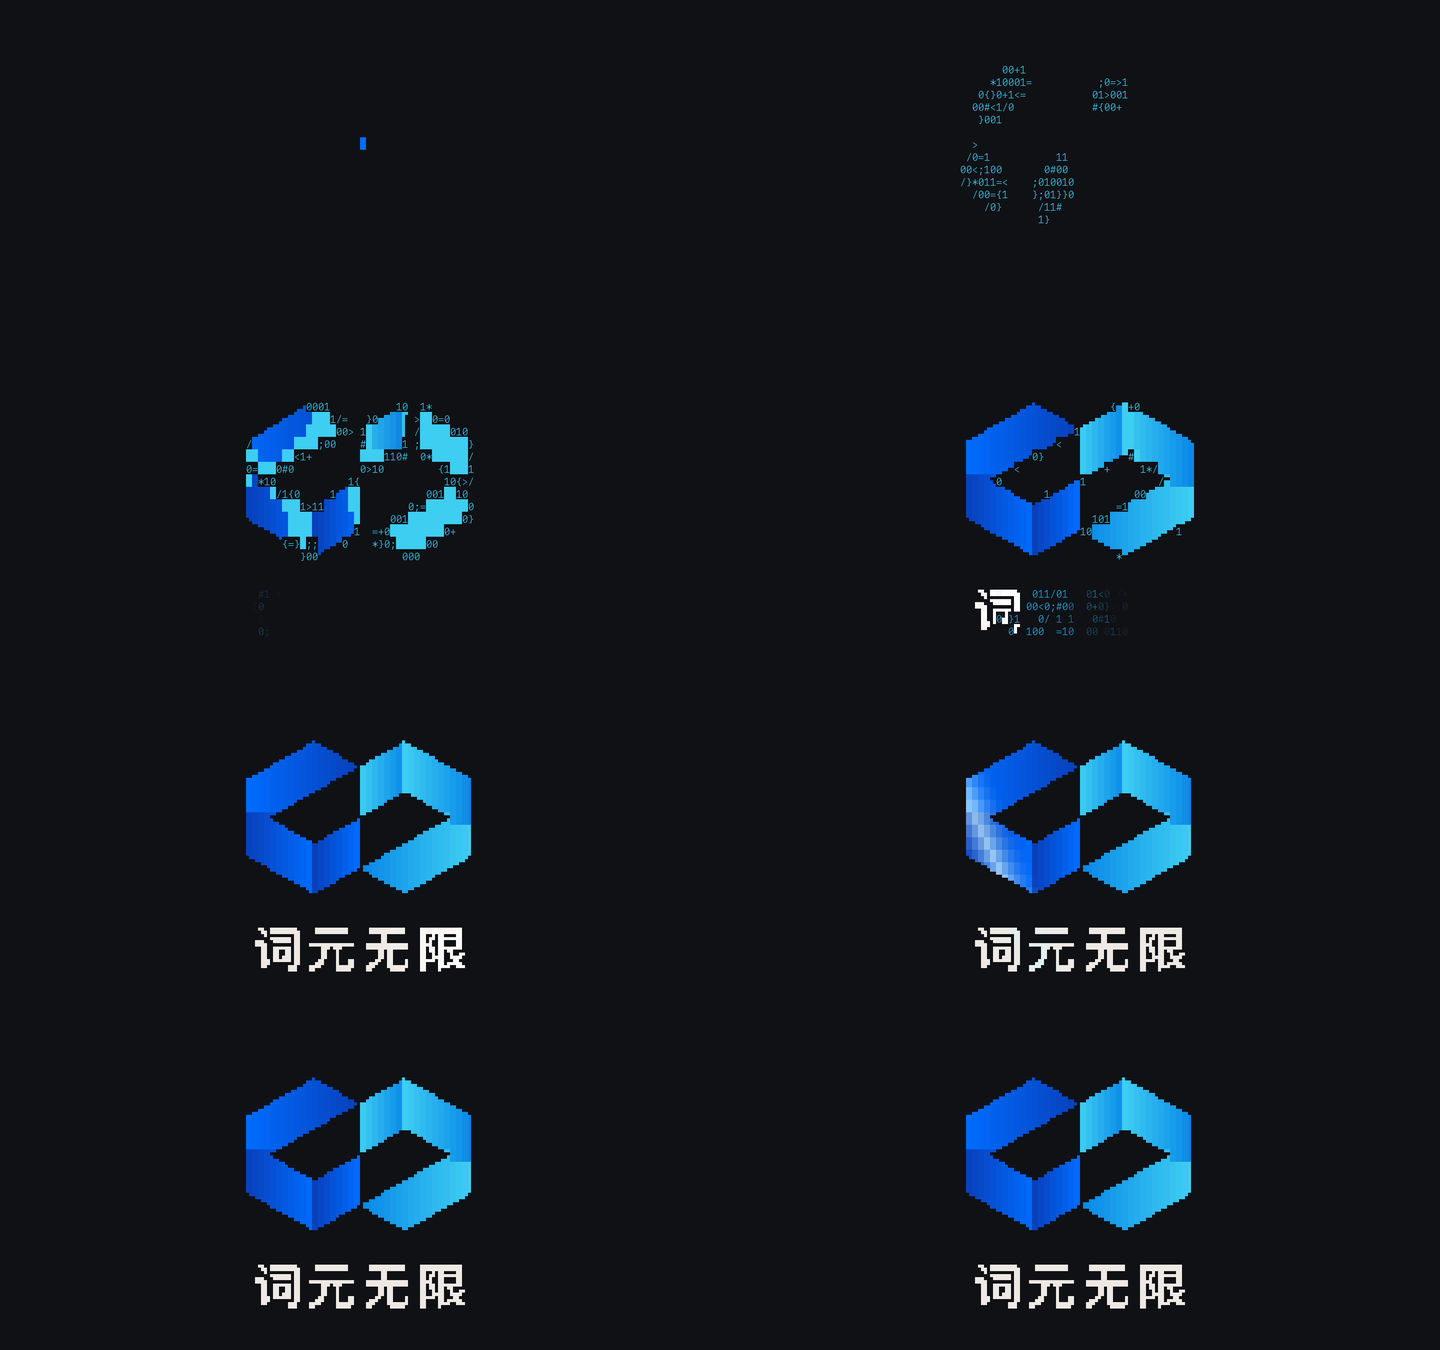
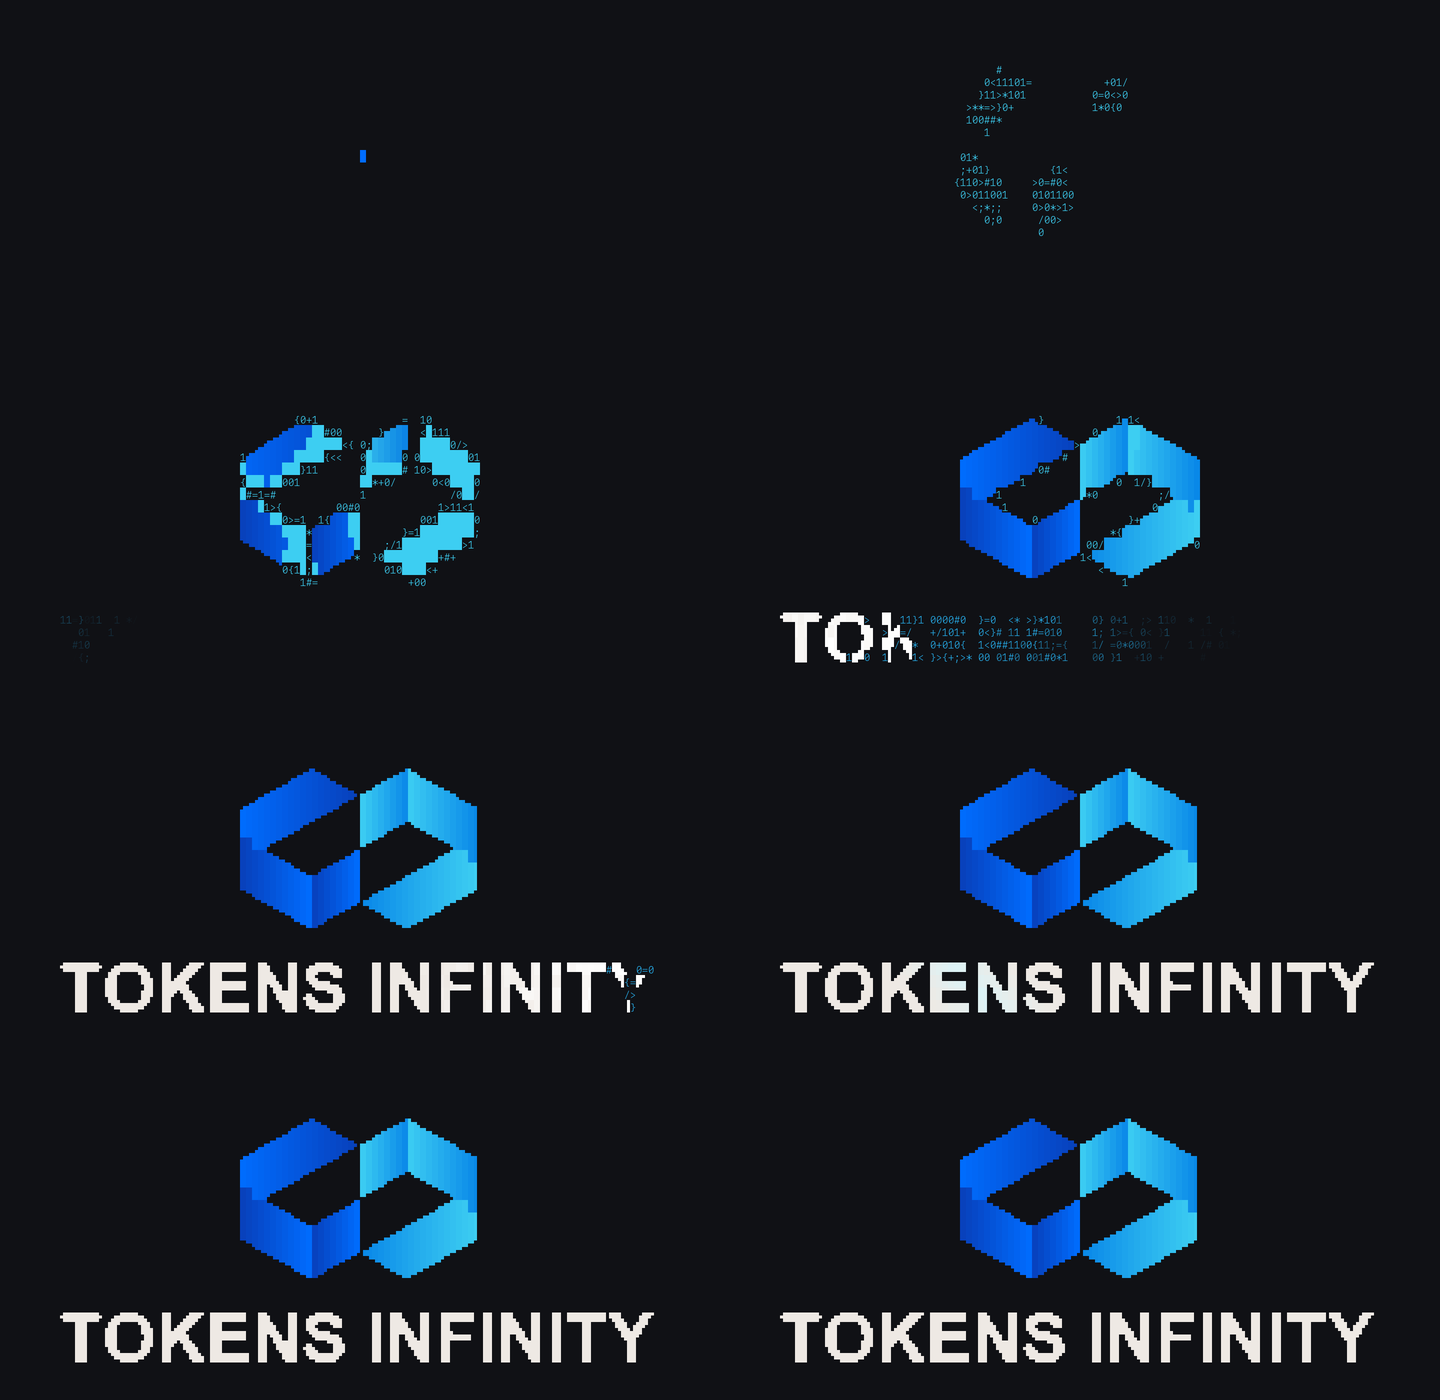
Use TOKENS INFINITY for the large animated title

diff --git a/tools/build_assets.py b/tools/build_assets.py
@@ -4,6 +4,7 @@ import re
 import xml.etree.ElementTree as ET
 from pathlib import Path
 import build_art as build
+from PIL import Image, ImageDraw, ImageFont
 
 ROOT = Path(__file__).resolve().parents[1]
 SVG = ROOT / 'pangu/assets/ciyuan-mark.svg'
@@ -27,7 +28,23 @@ data.update(source='ciyuan-mark.svg — user supplied logo', petals=[s['points']
             'stops': [[0, [61, 206, 242]], [.5, [0, 109, 255]], [1, [8, 63, 186]]]})
 build.FONT = build.default_font()
 assert build.FONT, 'PingFang font is required for building assets'
-data['word_sizes'] = {str(r): build.text_bits('词元无限', r, .10) for r in range(1, 7)}
+def english_word(rows):
+    text = 'TOKENS INFINITY'
+    font = ImageFont.truetype('/System/Library/Fonts/Supplemental/Arial Bold.ttf', 160)
+    box = font.getbbox(text)
+    img = Image.new('L', (box[2]-box[0], box[3]-box[1]), 0)
+    ImageDraw.Draw(img).text((-box[0], -box[1]), text, font=font, fill=255)
+    height = rows * 4
+    width = round(img.width / img.height * height * build.SUB_ASPECT)
+    width += width % 2
+    img = img.resize((width, height), Image.Resampling.LANCZOS)
+    bits = [format(sum(1 << x for x in range(width) if img.getpixel((x,y)) >= 118), 'x')
+            for y in range(height)]
+    return {'rows': rows, 'cols': width//2, 'bits': bits}
+
+
+data['word_text'] = 'TOKENS INFINITY'
+data['word_sizes'] = {str(r): english_word(r) for r in range(1, 7)}
 data['slogans'] = {k: {'text': '从词元，抵达无限', 'sizes': [build.text_bits('从词元，抵达无限', r) for r in (3, 4, 5, 6)]} for k in ('codex', 'claude')}
 asset.write_text(json.dumps(data, ensure_ascii=False, separators=(',', ':')))
-print('Built six logo faces with original SVG gradients and 词元无限 wordmark')
+print('Built six logo faces with original SVG gradients and TOKENS INFINITY wordmark')

diff --git a/pangu/art.py b/pangu/art.py
@@ -272,8 +272,7 @@ class Lockup:
         self.word_rows = word_rows
         self.slogan_rows = slogan_rows
         if word_rows:
-            probe = Mark(20, word_rows)
-            logo_cols = int(probe.word_cols * 1.04 + 1) // 2 * 2
+            logo_cols = max(10, word_rows * 10)
             self.mark = Mark(logo_cols, word_rows)
             lr = self.mark.logo_rows
             self.gap_logo = max(1, round(lr * 0.12))

diff --git a/README.md b/README.md
@@ -1,6 +1,6 @@
 # 词元无限 · Codex CLI 主题
 
-蓝青色几何标志从代码碎片中聚合成形，中文标题逐字显现，最后由一道光扫过并过渡到首页。使用提供的「词元」SVG，保留六个几何面的原始形状和渐变。
+蓝青色几何标志从代码碎片中聚合成形，英文主标题 TOKENS INFINITY 逐字显现，保留中文品牌「词元无限」，最后由一道光扫过并过渡到首页。使用提供的「词元」SVG，保留六个几何面的原始形状和渐变。
 
 ![开屏动画](docs/intro.gif)
 
@@ -41,7 +41,7 @@ python3 tools/render.py gif codex docs/intro.gif 120 38
 python3 tools/render.py sheet codex docs/frames.png 120 38
 ```
 
-原始 SVG 位于 `pangu/assets/ciyuan-mark.svg`。`art.json` 保存形状、每个面的渐变和预生成中文字形，因此用户运行时不需要安装字体或 Pillow。核心 Python 包名保留 `pangu`，便于对照上游。
+原始 SVG 位于 `pangu/assets/ciyuan-mark.svg`。`art.json` 保存形状、每个面的渐变和预生成标题字形，因此用户运行时不需要安装字体或 Pillow。核心 Python 包名保留 `pangu`，便于对照上游。
 
 ## 来源与许可
 
